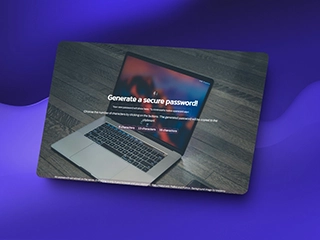
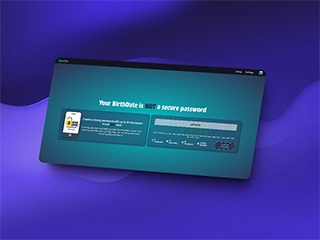
added new passgen project, fixed descriptions

diff --git a/portfolio/src/scenes/home/index.js b/portfolio/src/scenes/home/index.js
@@ -30,15 +30,15 @@ const Home = ({ setSelectedPage }) => {
     };
     const closeModal = () => setIsModalOpen(false);
     const isAboveSmallScreens = useMediaQuery("(min-width: 480px)");
-    return (_jsx("section", { id: SelectedPage.Home, className: "home-section", children: _jsxs(motion.div, { className: "home-container", onViewportEnter: () => setSelectedPage(SelectedPage.Home), children: [_jsxs("div", { className: "home-glass-parent", children: [_jsx("div", { className: "presentation-card glass", children: _jsxs("div", { className: "presentation-card-content", children: [_jsxs("div", { className: "avatar-container", children: [_jsx("img", { src: isAboveSmallScreens ? avatarSmall : avatarBig, alt: "Avatar profile picture" }), _jsxs("div", { className: "social-buttons", children: [_jsx("button", { className: "social-button", onClick: () => window.open(githubLinks.gitHub, "_blank", "noopener noreferrer"), children: _jsx("img", { src: githubIcon, alt: "Github" }) }), _jsx("button", { className: "social-button", onClick: () => window.open(webLinks.linkedIn, "_blank", "noopener noreferrer"), children: _jsx("img", { src: linkedInIcon, alt: "LinkedIn" }) })] })] }), _jsxs("div", { className: "presentation-text-container", children: [_jsxs("div", { className: "presentation-text-header", children: [_jsx("h1", { children: "\u00A1Hola! Soy Jos\u00E9 Diego" }), _jsx("span", { children: "\uD83D\uDC4B" })] }), _jsxs("div", { className: "presentation-text-paragraph", children: [_jsx("p", { className: "paragraph-one", children: "Desarrollador Web y mobile Jr. de C\u00E1ceres, Extremadura enfocado al Frontend, principalmente con React y TypeScript." }), _jsx("p", { className: "paragraph-two", children: "Me encanta empaparme de nuevas tecnolog\u00EDas y estar siempre aprendiendo cosas nuevas dentro y fuera del mundo de la programaci\u00F3n." }), _jsx("p", { className: "paragraph-three", children: "Aqu\u00ED podr\u00E1s ver mis proyectos, descargar mi CV o contactar conmigo. \u00A1Trabajemos juntos!" })] }), _jsxs("div", { className: "cta-btn-container", children: [_jsx("button", { className: "cta-contact-btn", children: _jsx("a", { href: "#contacto", children: "Contactar" }) }), _jsx("button", { className: "cta-contact-btn", onClick: openCvModal, children: "Descargar CV" })] })] })] }) }), _jsxs("div", { className: "techs glass", children: [_jsx("div", { className: "tech-title", children: _jsx("h2", { children: "Tecnolog\u00EDas" }) }), _jsxs("div", { className: "techs-row", children: [_jsx("img", { src: htmlicon, alt: "html5" }), _jsx("img", { src: cssIcon, alt: "css3" }), _jsx("img", { src: javaScriptIcon, alt: "javascript" }), _jsx("img", { src: typeScriptIcon, alt: "typescript" }), _jsx("img", { src: reactIcon, alt: "react" }), _jsx("img", { src: pythonIcon, alt: "python" }), _jsx("img", { src: reflexIcon, alt: "reflex" }), _jsx("img", { src: dartIcon, alt: "dart" }), _jsx("img", { src: flutterIcon, alt: "flutter" }), _jsx("img", { src: gitIcon, alt: "git" })] })] }), _jsxs("div", { className: "projects-container glass", children: [_jsx("div", { className: "projects-title-container" }), _jsx("div", { className: "projects-title", children: _jsx("h1", { children: "Proyectos Destacados" }) }), _jsxs("div", { className: "projects-grid", children: [_jsx(ProjectCard, { image: yellowJackWeb, title: "Web YellowJack", github: githubLinks.githubYellow, directLink: webLinks.yellowJackWeb, techImages: [reactIcon, typeScriptIcon, cssIcon], openModal: () => openModal("Web YellowJack", "Web realizada en React, typescript y css3 para un bar ficticio en la que se muestran los servicios que ofrece, la carta, y un formulario de contacto totalmente funcional hecho con Basin. El diseño es completamente responsive.", yellowJackWeb, [
+    return (_jsx("section", { id: SelectedPage.Home, className: "home-section", children: _jsxs(motion.div, { className: "home-container", onViewportEnter: () => setSelectedPage(SelectedPage.Home), children: [_jsxs("div", { className: "home-glass-parent", children: [_jsx("div", { className: "presentation-card glass", children: _jsxs("div", { className: "presentation-card-content", children: [_jsxs("div", { className: "avatar-container", children: [_jsx("img", { src: isAboveSmallScreens ? avatarSmall : avatarBig, alt: "Avatar profile picture" }), _jsxs("div", { className: "social-buttons", children: [_jsx("button", { className: "social-button", onClick: () => window.open(githubLinks.gitHub, "_blank", "noopener noreferrer"), children: _jsx("img", { src: githubIcon, alt: "Github" }) }), _jsx("button", { className: "social-button", onClick: () => window.open(webLinks.linkedIn, "_blank", "noopener noreferrer"), children: _jsx("img", { src: linkedInIcon, alt: "LinkedIn" }) })] })] }), _jsxs("div", { className: "presentation-text-container", children: [_jsxs("div", { className: "presentation-text-header", children: [_jsx("h1", { children: "\u00A1Hola! Soy Jos\u00E9 Diego" }), _jsx("span", { children: "\uD83D\uDC4B" })] }), _jsxs("div", { className: "presentation-text-paragraph", children: [_jsx("p", { className: "paragraph-one", children: "Desarrollador Web y mobile Jr. de C\u00E1ceres, Extremadura enfocado al Frontend, principalmente con React y TypeScript." }), _jsx("p", { className: "paragraph-two", children: "Me encanta empaparme de nuevas tecnolog\u00EDas y estar siempre aprendiendo cosas nuevas dentro y fuera del mundo de la programaci\u00F3n." }), _jsx("p", { className: "paragraph-three", children: "Aqu\u00ED podr\u00E1s ver mis proyectos, descargar mi CV o contactar conmigo. \u00A1Trabajemos juntos!" })] }), _jsxs("div", { className: "cta-btn-container", children: [_jsx("button", { className: "cta-contact-btn", children: _jsx("a", { href: "#contacto", children: "Contactar" }) }), _jsx("button", { className: "cta-contact-btn", onClick: openCvModal, children: "Descargar CV" })] })] })] }) }), _jsxs("div", { className: "techs glass", children: [_jsx("div", { className: "tech-title", children: _jsx("h2", { children: "Tecnolog\u00EDas" }) }), _jsxs("div", { className: "techs-row", children: [_jsx("img", { src: htmlicon, alt: "html5" }), _jsx("img", { src: cssIcon, alt: "css3" }), _jsx("img", { src: javaScriptIcon, alt: "javascript" }), _jsx("img", { src: typeScriptIcon, alt: "typescript" }), _jsx("img", { src: reactIcon, alt: "react" }), _jsx("img", { src: pythonIcon, alt: "python" }), _jsx("img", { src: reflexIcon, alt: "reflex" }), _jsx("img", { src: dartIcon, alt: "dart" }), _jsx("img", { src: flutterIcon, alt: "flutter" }), _jsx("img", { src: gitIcon, alt: "git" })] })] }), _jsxs("div", { className: "projects-container glass", children: [_jsx("div", { className: "projects-title-container" }), _jsx("div", { className: "projects-title", children: _jsx("h1", { children: "Proyectos Destacados" }) }), _jsxs("div", { className: "projects-grid", children: [_jsx(ProjectCard, { image: yellowJackWeb, title: "Web YellowJack", github: githubLinks.githubYellow, directLink: webLinks.yellowJackWeb, techImages: [reactIcon, typeScriptIcon, cssIcon], openModal: () => openModal("Web YellowJack", `${descriptions.yellowJackWebDesc}`, yellowJackWeb, [
                                                 reactIcon,
                                                 typeScriptIcon,
                                                 cssIcon,
-                                            ]) }), _jsx(ProjectCard, { image: calculadoraBar, title: "Calculadora Bar", github: githubLinks.githubCalc, directLink: webLinks.yellowJackCalc, techImages: [htmlicon, javaScriptIcon, cssIcon], openModal: () => openModal("Calculadora de Bar", "Aplicación web de una calculadora para bares, en este caso, para el bar ficticio Yellow Jack. Fué un proyecto personal debido a que, en un juego de rol, usabamos el sistema de google sheets, que hacia lento el proceso de calcular los precios. De esta forma, la web a parte de cargar más rapido, era mas sencilla de usar y totalmente responsive", calculadoraBar, [
+                                            ]) }), _jsx(ProjectCard, { image: calculadoraBar, title: "Calculadora Bar", github: githubLinks.githubCalc, directLink: webLinks.yellowJackCalc, techImages: [htmlicon, javaScriptIcon, cssIcon], openModal: () => openModal("Calculadora de Bar", `${descriptions.yellowjackCalcDesc}`, calculadoraBar, [
                                                 htmlicon,
                                                 javaScriptIcon,
                                                 cssIcon,
-                                            ]) }), _jsx(ProjectCard, { image: passGen, title: "Generador Contrase\u00F1as", github: githubLinks.githubPassGen, techImages: [pythonIcon, reflexIcon, cssIcon], openModal: () => openModal("Generador de Contraseñas", "Generador de contraseñas aleatorias realizado con Reflex. La página no guarda las contraseñas en ningun tipo de base de datos, con lo que la contraseña elegida por el usuario está segura. Permite elegir un numero de caracteres para la longitud de la contraseña. La web funciona en todos los dispositivos.", passGen, [
+                                            ]) }), _jsx(ProjectCard, { image: passGen, title: "Generador Contrase\u00F1as", github: githubLinks.githubPassGen, directLink: webLinks.passGenWeb, techImages: [reactIcon, typeScriptIcon, cssIcon], openModal: () => openModal("Generador de Contraseñas", `${descriptions.passGenDesc}`, passGen, [
                                                 pythonIcon,
                                                 reflexIcon,
                                                 cssIcon,

diff --git a/portfolio/src/shared/constants.js b/portfolio/src/shared/constants.js
@@ -11,12 +11,13 @@ export const webLinks = {
     yellowJackWeb: 'https://yellowjack-jddev.netlify.app',
     yellowJackCalc: 'https://calculadora-yellow-jddev.netlify.app',
     prevPortfolio: 'https://jddev-portfolio.netlify.app',
-    linkedIn: "https://www.linkedin.com/in/jdmorenopulido/"
+    linkedIn: "https://www.linkedin.com/in/jdmorenopulido/",
+    passGenWeb: "https://passgen-jddev.netlify.app"
 };
 export const descriptions = {
     yellowJackWebDesc: "Web realizada en React, typescript y css3 para un bar ficticio en la que se muestran los servicios que ofrece, la carta, y un formulario de contacto totalmente funcional hecho con Basin. El diseño es completamente responsive.",
     yellowjackCalcDesc: "Aplicación web de una calculadora para bares, en este caso, para el bar ficticio Yellow Jack. Fué un proyecto personal debido a que, en un juego de rol, usabamos el sistema de google sheets, que hacia lento el proceso de calcular los precios. De esta forma, la web a parte de cargar más rapido, era mas sencilla de usar y totalmente responsive",
-    passGenDesc: "Generador de contraseñas aleatorias realizado con Reflex. La página no guarda las contraseñas en ningun tipo de base de datos, con lo que la contraseña elegida por el usuario está segura. Permite elegir un numero de caracteres para la longitud de la contraseña. La web funciona en todos los dispositivos. DISCLAIMER: Debido a problemas con el hosting, la web se encuentra inoperativa actualmente. Sera realizada de nuevo en React con un diseño nuevo.",
+    passGenDesc: "Generador de contraseñas aleatorias realizado con React, TypeScript y CSS3. La página no guarda las contraseñas en ningun tipo de base de datos, con lo que la contraseña elegida por el usuario está segura. Permite elegir un numero de caracteres para la longitud de la contraseña y si quiere simbolos o no. La web funciona en todos los dispositivos.",
     mycDesc: "Generador de anotaciones de combos para juegos de lucha variados. Despues de elegir el juego deseado, al hacer click sobre los inputs, irás generando una lista de los mismos. Una vez hayas terminado, pulsa el boton 'Download Combo' para descargar un PNG con tus anotaciones. Perfecto si eres creador de contenido. DISCLAIMER: Debido a problemas con el hosting, la web se encuentra inoperativa actualmente. Sera realizada de nuevo en React con un diseño nuevo.",
     diceAppDesc: "Aplicación creada en Flutter para dispositivos Android. La aplicación permite tirar un dado de seis caras de forma aleatoria. Si necesitas jugartela a suertes en alguna situación con tus amigos, esta aplicación te vendrá como anillo al dedo."
 };

diff --git a/portfolio/src/scenes/home/index.tsx b/portfolio/src/scenes/home/index.tsx
@@ -143,7 +143,7 @@ const Home = ({ setSelectedPage }: Props) => {
                 directLink={webLinks.yellowJackWeb}
                 techImages={[reactIcon, typeScriptIcon, cssIcon]}
                 openModal={() =>
-                  openModal("Web YellowJack", "Web realizada en React, typescript y css3 para un bar ficticio en la que se muestran los servicios que ofrece, la carta, y un formulario de contacto totalmente funcional hecho con Basin. El diseño es completamente responsive.", yellowJackWeb, [
+                  openModal("Web YellowJack", `${descriptions.yellowJackWebDesc}`, yellowJackWeb, [
                     reactIcon,
                     typeScriptIcon,
                     cssIcon,
@@ -157,7 +157,7 @@ const Home = ({ setSelectedPage }: Props) => {
                 directLink={webLinks.yellowJackCalc}
                 techImages={[htmlicon, javaScriptIcon, cssIcon]}
                 openModal={() =>
-                  openModal("Calculadora de Bar", "Aplicación web de una calculadora para bares, en este caso, para el bar ficticio Yellow Jack. Fué un proyecto personal debido a que, en un juego de rol, usabamos el sistema de google sheets, que hacia lento el proceso de calcular los precios. De esta forma, la web a parte de cargar más rapido, era mas sencilla de usar y totalmente responsive", calculadoraBar, [
+                  openModal("Calculadora de Bar", `${descriptions.yellowjackCalcDesc}`, calculadoraBar, [
                     htmlicon,
                     javaScriptIcon,
                     cssIcon,
@@ -168,9 +168,10 @@ const Home = ({ setSelectedPage }: Props) => {
                 image={passGen}
                 title="Generador Contraseñas"
                 github={githubLinks.githubPassGen}
-                techImages={[pythonIcon, reflexIcon, cssIcon]}
+                directLink={webLinks.passGenWeb}
+                techImages={[reactIcon,typeScriptIcon, cssIcon]}
                 openModal={() =>
-                  openModal("Generador de Contraseñas", "Generador de contraseñas aleatorias realizado con Reflex. La página no guarda las contraseñas en ningun tipo de base de datos, con lo que la contraseña elegida por el usuario está segura. Permite elegir un numero de caracteres para la longitud de la contraseña. La web funciona en todos los dispositivos.", passGen, [
+                  openModal("Generador de Contraseñas", `${descriptions.passGenDesc}`, passGen, [
                     pythonIcon,
                     reflexIcon,
                     cssIcon,

diff --git a/portfolio/src/shared/constants.ts b/portfolio/src/shared/constants.ts
@@ -13,7 +13,8 @@ export const webLinks = {
     yellowJackWeb : 'https://yellowjack-jddev.netlify.app',
     yellowJackCalc : 'https://calculadora-yellow-jddev.netlify.app',
     prevPortfolio : 'https://jddev-portfolio.netlify.app',
-    linkedIn : "https://www.linkedin.com/in/jdmorenopulido/"
+    linkedIn : "https://www.linkedin.com/in/jdmorenopulido/",
+    passGenWeb : "https://passgen-jddev.netlify.app"
 };
 
 
@@ -22,7 +23,7 @@ export const descriptions = {
     
     yellowjackCalcDesc : "Aplicación web de una calculadora para bares, en este caso, para el bar ficticio Yellow Jack. Fué un proyecto personal debido a que, en un juego de rol, usabamos el sistema de google sheets, que hacia lento el proceso de calcular los precios. De esta forma, la web a parte de cargar más rapido, era mas sencilla de usar y totalmente responsive",
 
-    passGenDesc : "Generador de contraseñas aleatorias realizado con Reflex. La página no guarda las contraseñas en ningun tipo de base de datos, con lo que la contraseña elegida por el usuario está segura. Permite elegir un numero de caracteres para la longitud de la contraseña. La web funciona en todos los dispositivos. DISCLAIMER: Debido a problemas con el hosting, la web se encuentra inoperativa actualmente. Sera realizada de nuevo en React con un diseño nuevo.",
+    passGenDesc : "Generador de contraseñas aleatorias realizado con React, TypeScript y CSS3. La página no guarda las contraseñas en ningun tipo de base de datos, con lo que la contraseña elegida por el usuario está segura. Permite elegir un numero de caracteres para la longitud de la contraseña y si quiere simbolos o no. La web funciona en todos los dispositivos.",
 
     mycDesc : "Generador de anotaciones de combos para juegos de lucha variados. Despues de elegir el juego deseado, al hacer click sobre los inputs, irás generando una lista de los mismos. Una vez hayas terminado, pulsa el boton 'Download Combo' para descargar un PNG con tus anotaciones. Perfecto si eres creador de contenido. DISCLAIMER: Debido a problemas con el hosting, la web se encuentra inoperativa actualmente. Sera realizada de nuevo en React con un diseño nuevo.",
 
